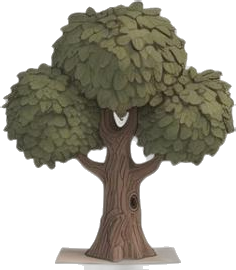
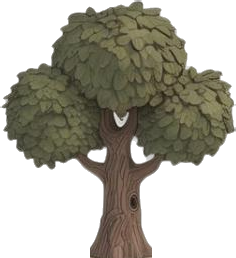
Race: trees at true scale relative to the animals
Everything is sized from the runner's height: trees are ~5x as tall as
the animals (lane-blocking trees, branch-holding birches and forest
alike). Branch heights follow the animals' head/knee height. Blocking
trees draw under other obstacles so canopies don't hide what's next.
Removed the soil plate under the oak sprite.

Claude-Session: https://claude.ai/code/session_01R2EQoiKZ4B2APo9XX7HUEW

diff --git a/js/scenes/RaceScene.js b/js/scenes/RaceScene.js
@@ -9,7 +9,7 @@ const PX_PER_M = 16;       // 30 m of track visible ahead
 const RUNNER_Y = 610;
 const TOP_Y = 120;
 const WINDOW_MS = 380;
-const TREE_NEAR_H = 980;  // height of a tree right next to the runner (taller than the 720 screen)     // how recently you must have jumped/ducked when an obstacle arrives
+const TREE_SCALE = 5.2;   // trees are ~5x as tall as the animals     // how recently you must have jumped/ducked when an obstacle arrives
 
 // Things further up the track are drawn a bit smaller, for a sense of depth.
 const depthScale = (y) => 0.55 + 0.45 * Math.max(0, Math.min(1, (y - TOP_Y) / (RUNNER_Y - TOP_Y)));
@@ -46,7 +46,11 @@ export class RaceScene extends Phaser.Scene {
     this.layout = setupPanes(this, players.length, DH);
     this.cols = this.layout.panes;
     // the actual running track inside each pane (panes can be wide)
-    for (const c of this.cols) { c.tw = Math.min(c.w * 0.72, 760); c.tx = c.cx - c.tw / 2; }
+    for (const c of this.cols) {
+      c.tw = Math.min(c.w * 0.72, 760); c.tx = c.cx - c.tw / 2;
+      c.runH = Math.min(190, c.tw * 0.5);   // runner height: everything is sized relative to it
+      c.treeH = c.runH * TREE_SCALE;        // a tree right beside the runner (taller than the screen)
+    }
 
     this.bg = this.add.graphics().setDepth(0);
     this.g = this.add.graphics().setDepth(3);
@@ -65,7 +69,7 @@ export class RaceScene extends Phaser.Scene {
         pl, c, dist: 0, speed: 0, laneX: c.cx, stumbleUntil: 0,
         lastJump: -1e9, lastDuck: -1e9, nextObs: 0, place: 0,
         shadow: this.add.ellipse(c.cx, RUNNER_Y + 30, Math.min(110, c.tw * 0.3), 22, 0x000000, 0.25).setDepth(4),
-        sprite: charImage(this, c.cx, RUNNER_Y + 30, pl.animal || 'bear', 'back', Math.min(190, c.tw * 0.5)).setDepth(5),
+        sprite: charImage(this, c.cx, RUNNER_Y + 30, pl.animal || 'bear', 'back', c.runH).setDepth(5),
         msg: this.add.text(c.cx, RUNNER_Y - 110, '', txt(30, '#ffffff', { stroke: '#1d3b52', strokeThickness: 6 })).setOrigin(0.5).setDepth(8),
         lost: this.add.text(c.cx, 380, '', txt(26, '#ffffff', { stroke: '#9b3b2f', strokeThickness: 6, wordWrap: { width: c.tw - 30 } })).setOrigin(0.5).setDepth(8),
         labels: [],
@@ -142,7 +146,7 @@ export class RaceScene extends Phaser.Scene {
         // Big trees: near ones are taller than the screen, so their tops are cut off.
         const rocky = dcr.key.includes('rock') || dcr.key.includes('boulder');
         const k = depthScale(y);
-        const h = TREE_NEAR_H * Math.pow(k, 1.6) * (rocky ? 0.38 : 1);
+        const h = r.c.treeH * Math.pow(k, 1.6) * (rocky ? 0.38 : 1);
         const im = this.sprite(dcr.key, 1 + y / 10000).setOrigin(0.5, 1);
         this.fitHeight(im, h);
         const halfW = im.displayWidth / 2;
@@ -237,10 +241,11 @@ export class RaceScene extends Phaser.Scene {
       const b = [...o.blocked].sort((p, q) => p - q);
       const adjacent = b.length === 2 && b[1] - b[0] === 1;
       if (o.kind === 'tree') {
-        // a big tree standing in each blocked lane
+        // a full-size tree (same scale as the forest) standing in each blocked lane;
+        // drawn under other obstacles so its canopy never hides what's coming next
         for (const l of b) {
-          const im = this.sprite(o.tree, 2 + y / 10000).setOrigin(0.5, 0.97).setPosition(c.cx + l * laneW, y);
-          im.setScale((laneW * 1.4 * grow) / im.width);
+          const im = this.sprite(o.tree, 1.95 + y / 100000).setOrigin(0.5, 0.97).setPosition(c.cx + l * laneW, y);
+          this.fitHeight(im, c.treeH * Math.pow(depthScale(y), 1.6));
           im.setFlipX(l > 0);
         }
         return null;
@@ -265,11 +270,12 @@ export class RaceScene extends Phaser.Scene {
     // High branch = duck under it, low branch = jump over it. Its shadow on the
     // ground shows where it is; the gap between branch and shadow shows how high.
     const k = Math.pow(depthScale(y), 1.4);
-    const postH = k * Math.min(330, c.tw * 0.55);
+    const postH = c.treeH * Math.pow(depthScale(y), 1.6);  // full-size birch trees hold the branch
     const high = o.type === 'branch';
-    const lift = postH * (high ? 0.5 : 0.13);
+    const kk = depthScale(y);                                // same perspective as the runner
+    const lift = c.runH * kk * (high ? 0.75 : 0.2);          // head height vs knee height of the animals
     const sg = this.shadowG;
-    const sw = half * 2, sh = Math.max(10, postH * 0.08);
+    const sw = half * 2, sh = Math.max(10, c.runH * kk * 0.14);
     if (high) {
       // soft, faint shadow: the branch is far above the ground
       sg.fillStyle(0x1d3b1a, 0.12).fillEllipse(c.cx, y, sw * 1.04, sh * 2.2);
@@ -278,9 +284,9 @@ export class RaceScene extends Phaser.Scene {
       // dark, sharp shadow right under it: the branch is close to the ground
       sg.fillStyle(0x1d3b1a, 0.45).fillEllipse(c.cx, y, sw, sh);
     }
-    this.fitHeight(this.sprite('prop_birch', 2 + y / 10000).setOrigin(0.5, 1).setPosition(c.cx - half, y + 16), postH);
-    this.fitHeight(this.sprite('prop_birch', 2 + y / 10000).setOrigin(0.5, 1).setPosition(c.cx + half, y + 16), postH).setFlipX(true);
-    const thick = Math.max(22, postH * 0.13);
+    this.fitHeight(this.sprite('prop_birch', 1.95 + y / 100000).setOrigin(0.5, 1).setPosition(c.cx - half, y + 16), postH);
+    this.fitHeight(this.sprite('prop_birch', 1.95 + y / 100000).setOrigin(0.5, 1).setPosition(c.cx + half, y + 16), postH).setFlipX(true);
+    const thick = Math.max(18, c.runH * kk * 0.13);
     const bar = this.sprite('prop_stick', 2.5 + y / 10000).setOrigin(0.5, 0.5).setPosition(c.cx, y - lift);
     bar.setDisplaySize(thick, half * 2.1);
     bar.setRotation(Math.PI / 2);
